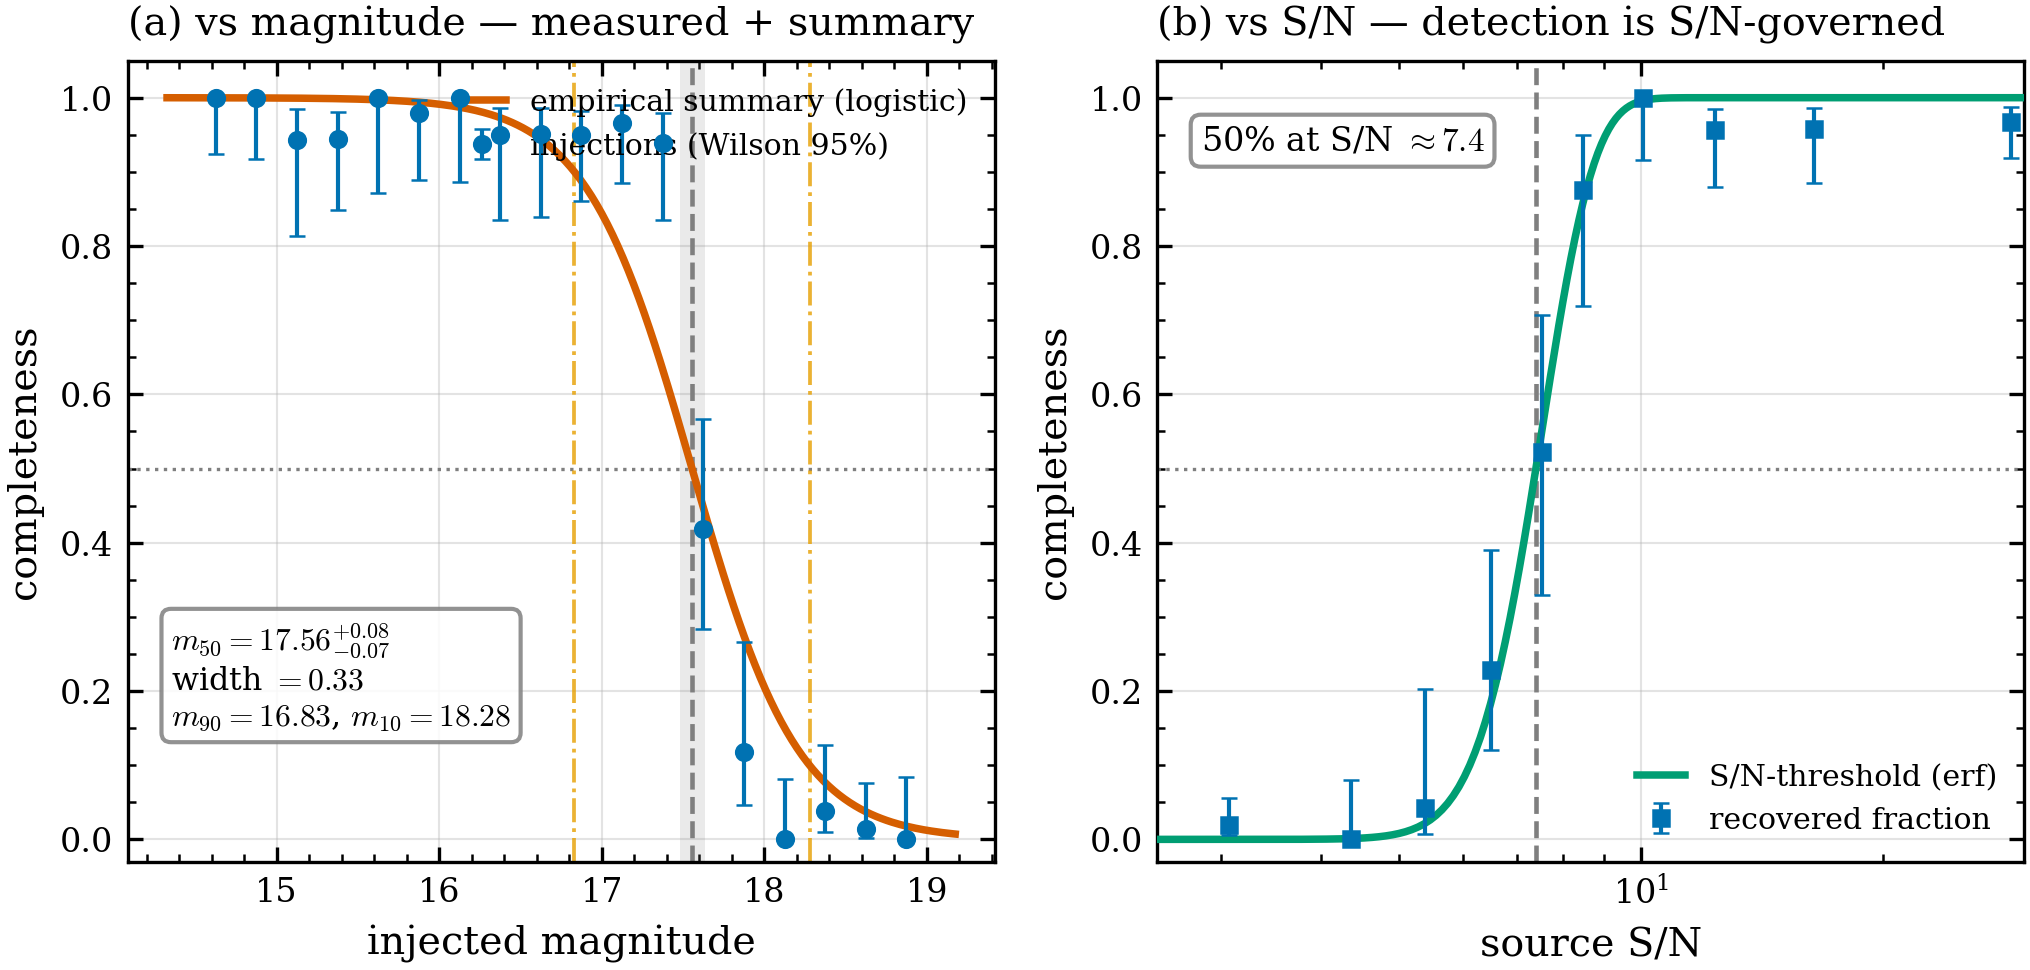
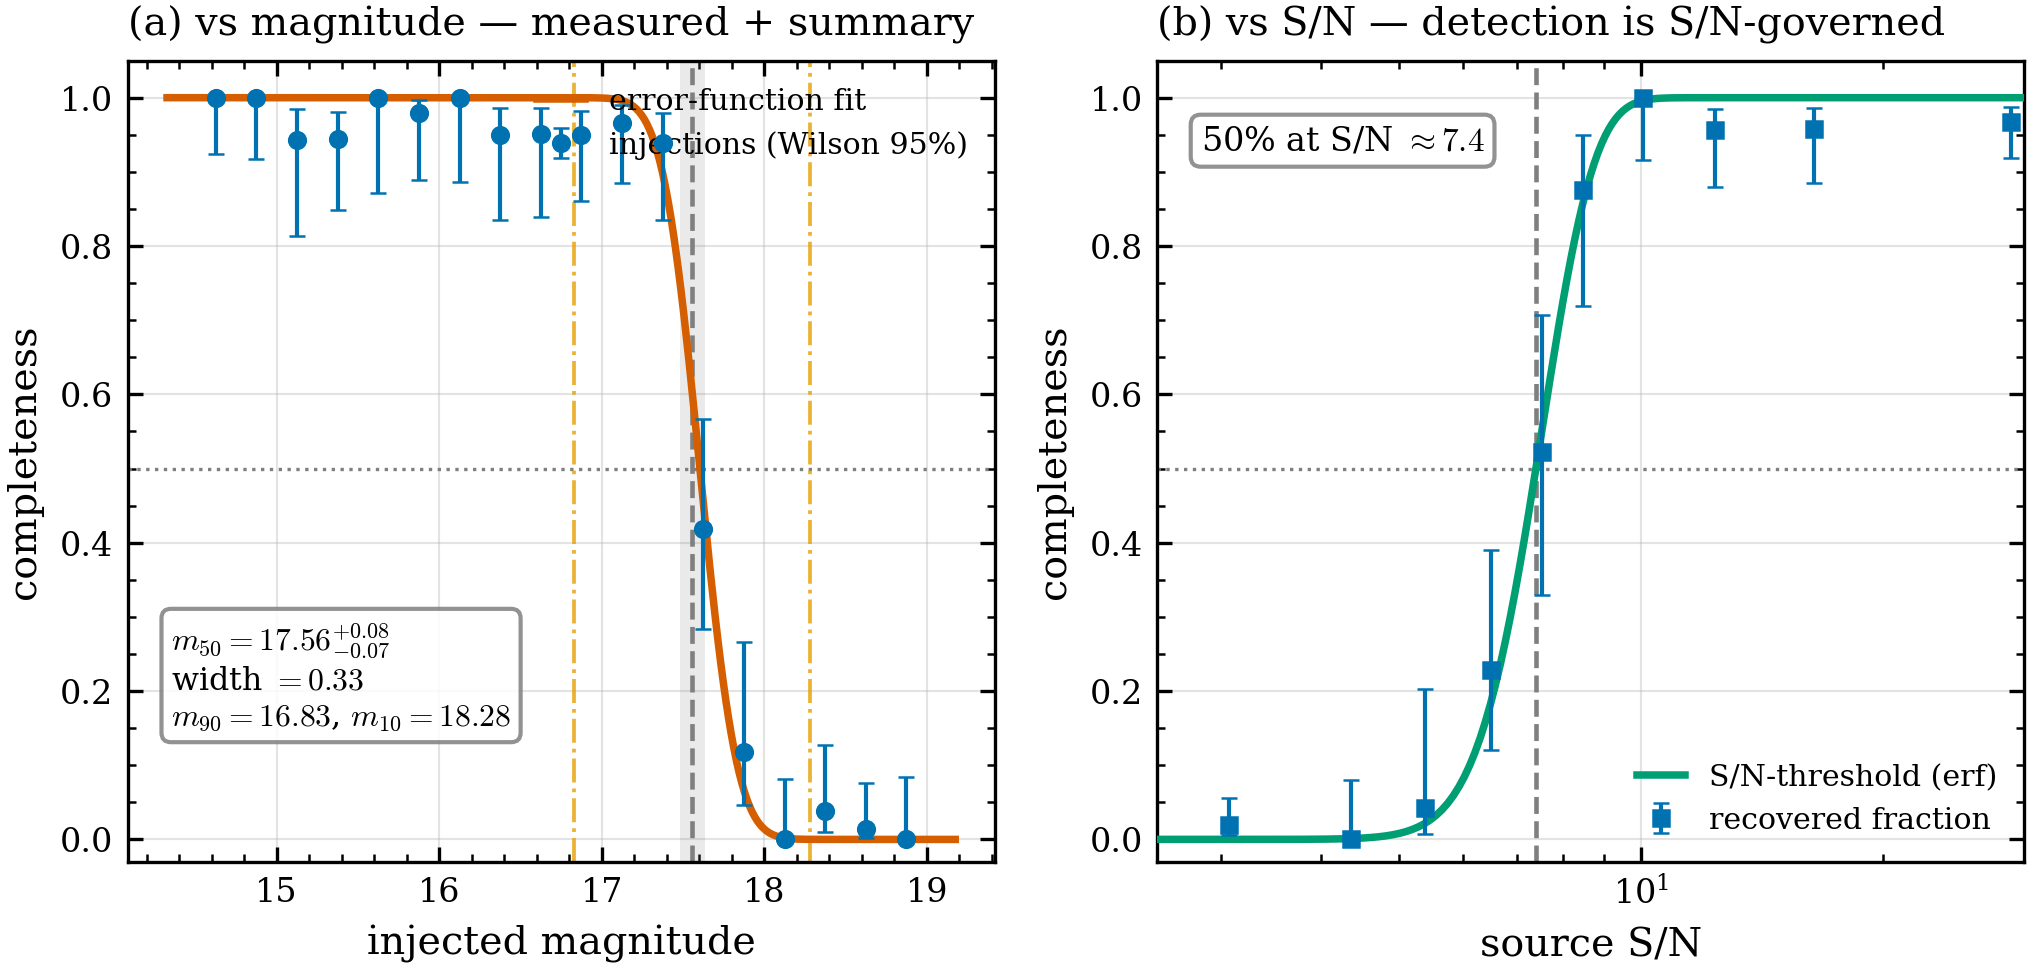
fix(paper): §3.2 completeness — error-function detection model, real citations (AutoPhOT precedent)
Followed the reviewer/lab instinct to check the analog tools paper: AutoPhOT
(Brennan & Fraser 2022) models the recovery/limiting-magnitude curve as an
error function beta=1/2[1-erf(z/sqrt2)] of source significance above the
background, citing Masci (2011) + Kashyap et al. (2010). That is exactly the
S/N-threshold form found here, so §3.2 now uses the error-function detection
model with those verified citations (+ Stetson 1987 for the artificial-star
method) and drops the unattributed 'logistic' placeholder entirely. Added
kashyap2010 (ADS 2010ApJ...719..900K) and masci2011 (IPAC note) to both bib
copies. Fig 1 refit with erf in both panels ('error-function fit').

Changed region(s): [[0.1552, 0.0928, 0.4655, 0.4948], [0.3414, 0.5567, 0.4034, 0.8041], [0.3724, 0.8041, 0.4655, 0.8969]]

diff --git a/validation/paper/fig1_completeness_snr.py b/validation/paper/fig1_completeness_snr.py
@@ -97,8 +97,13 @@ def main() -> int:
     for mm, lo, hi in [(m90, None, None), (m10, None, None)]:
         axa.axvline(mm, color=C["accent"], lw=0.9, ls="-.", zorder=1, alpha=.8)
     grid = np.linspace(mag.min() - 0.3, mag.max() + 0.3, 300)
-    axa.plot(grid, expit((m50 - grid) / width), color=C["model"], lw=1.8,
-             zorder=4, label="empirical summary (logistic)")
+    # error-function detection model (Masci 2011; the form AutoPhOT adopts),
+    # fit to the magnitude bins — replaces the logistic, keeps the same depth
+    def erf_comp(m, m50f, wf):
+        return 0.5 * (1 - erf((m - m50f) / (np.sqrt(2) * wf)))
+    pa, _ = curve_fit(erf_comp, mag, comp, p0=[m50, width], maxfev=20000)
+    axa.plot(grid, erf_comp(grid, *pa), color=C["model"], lw=1.8,
+             zorder=4, label="error-function fit")
     axa.errorbar(mag, comp,
                  yerr=[np.clip(comp - ci[:, 0], 0, None), np.clip(ci[:, 1] - comp, 0, None)],
                  fmt="o", color=C["data"], ms=4, lw=1, capsize=2, zorder=5,

diff --git a/validation/paper/논문작업/MANUSCRIPT.md b/validation/paper/논문작업/MANUSCRIPT.md
@@ -92,7 +92,7 @@ Table 1 records which of APEX's internally built components the experiments belo
 
 ### 3.2 Detection completeness
 
-Completeness quantifies how the detector's recovery fraction falls with magnitude. It sets the effective depth of any catalogue APEX builds and shows whether recovery is limited by signal-to-noise or by a magnitude-dependent detector bias. Artificial stars injected across a magnitude ladder and recovered by the production detector give a well-behaved completeness function (Fig. 1a), which we summarise with an empirical logistic parametrisation \citep[a standard descriptive form for a completeness curve;][]{REF_completeness}; its parameters are bootstrapped over the injection trials and are not re-fit to the binned points, so the binned recovery fractions remain the measurement and the curve only a summary. The 50 per cent depth is $m_{50} = 17.56^{+0.08}_{-0.07}$ mag (bootstrap 95 per cent CI $17.48$–$17.63$), with a logistic transition width of $0.33$ mag, from 840 injections across 12 trials; completeness exceeds 90 per cent brighter than $m_{90}=16.83$ and falls below 10 per cent fainter than $m_{10}=18.28$. The logistic form is not arbitrary. Recovery here is governed by source signal-to-noise rather than magnitude directly: the recovered fraction is a clean threshold transition in S/N (Fig. 1b), rising from below 10 per cent to above 90 per cent across $\mathrm{S/N}\approx6$–$9$ (50 per cent near $\mathrm{S/N}\approx7.4$), so completeness against magnitude is the noise-threshold crossing — a cumulative Gaussian in S/N — mapped through the $\mathrm{S/N}(m)$ relation, of which the logistic is the standard smooth approximation. The few-per-cent shortfall from unity at the brightest bins is a separate, magnitude-*independent* loss (injections landing on defective pixels or close blends) that the two-parameter transition model does not absorb and does not need to: it leaves the recovered depth and width unaffected.
+Completeness quantifies how the detector's recovery fraction falls with magnitude. It sets the effective depth of any catalogue APEX builds and shows whether recovery is limited by signal-to-noise or by a magnitude-dependent detector bias. Following the artificial-star completeness test introduced with DAOPHOT \citep{stetson1987}, stars injected across a magnitude ladder and recovered by the production detector give a well-behaved completeness function (Fig. 1a). Recovery is set by a source's signal-to-noise against the background, not by magnitude directly: the recovered fraction is a clean threshold transition in S/N (Fig. 1b) that follows the error-function detection-probability form expected for a flux measured against Gaussian background noise, $\beta = \tfrac{1}{2}\!\left[1 - \mathrm{erf}(z/\sqrt{2})\right]$ with $z$ the source's significance above the detection threshold \citep{masci2011, kashyap2010} — the same limiting-magnitude model the AutoPhOT pipeline adopts \citep{brennan2022}. The recoveries collapse onto this curve with a 50 per cent point near $\mathrm{S/N}\approx7.4$; the binned recovery fractions are the measurement and the fitted curve only summarises them, its parameters bootstrapped over the 12 injection trials and not re-fit to the binned points. Mapped through the $\mathrm{S/N}(m)$ relation this gives the magnitude completeness of Fig. 1a: a 50 per cent depth $m_{50} = 17.56^{+0.08}_{-0.07}$ mag (bootstrap 95 per cent CI $17.48$–$17.63$), transition width $0.33$ mag, from 840 injections, with completeness above 90 per cent brighter than $m_{90}=16.83$ and below 10 per cent fainter than $m_{10}=18.28$. The few-per-cent shortfall from unity at the brightest bins is a separate, magnitude-*independent* loss (injections landing on defective pixels or close blends) that the detection model does not absorb and does not need to: it leaves the recovered depth and width unaffected.
 
 ### 3.3 Photometric error model
 
